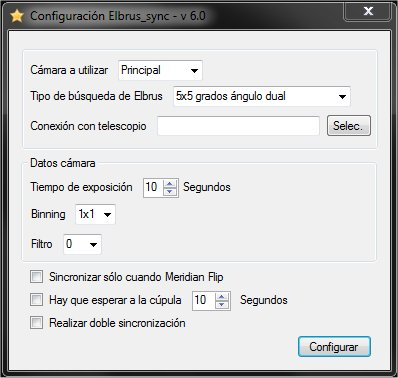
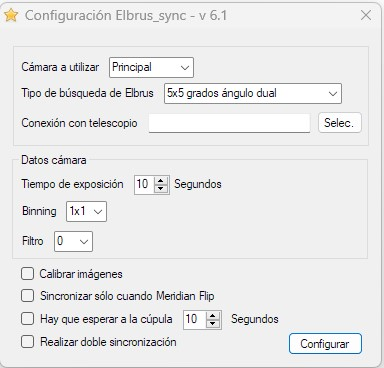
CCDC-ELBRUS v6.1

diff --git a/utilidades/CCDC-ELBRUS.html b/utilidades/CCDC-ELBRUS.html
@@ -23,7 +23,7 @@ Elbrus</font></td>
     <td width="1073" style="border: 5px solid #BD9600">
     <p align="center">
     <font size="4" color="#FFFFFF">&nbsp;</font><font size="4" color="#C6C246">Versión 
-    6.0</font></td>
+    6.1</font></td>
     <td width="34" align="justify">
     &nbsp;</td>
   </tr>
@@ -120,7 +120,7 @@ que tendrá Elbrus_sync (generando </font><font size="4" color="#C6C246">
 Elbrus_sync.ini</font><font size="4" color="#FFFFFF">), así como crea algunos <i>
 scripts</i> auxiliares.</font></p>
 <p><font size="4" color="#FFFFFF">Los dos ejecutables los encontrarás en
-<a href="Elbrus_sync%20v6.0.zip">Elbrus_sync v6.0.zip</a>. 
+<a href="Elbrus_sync%20v6.1.zip">Elbrus_sync v6.1.zip</a>. 
 Se deberán extraer en el mismo directorio 
 donde esté instalado Elbrus. Los programas son&nbsp; </font><font size="4" color="#C6C246">
 Elbrus_sync_cfg.exe</font><font size="4" color="#FFFFFF"> y </font>
@@ -128,13 +128,13 @@ Elbrus_sync_cfg.exe</font><font size="4" color="#FFFFFF"> y </font>
 <p><font size="4" color="#FFFFFF">Estos programas han sido compilados para 
 funcionar con Microsoft .NET Framework 4.0, por lo que deberá verificar que 
 dispone de esta versión o superior, y en su defecto, podrá descargarlo e 
-instalarlo desde </font><font size="5"><b>
+instalarlo desde </font><font size="4"><b>
 <a href="http://www.microsoft.com/es-es/download/details.aspx?id=30653">
 Microsoft</a></b></font><font size="4" color="#FFFFFF">.</font></p>
 <p><font size="4" color="#FFFFFF">Lo primero que haremos es ejecutar </font>
 <font size="4" color="#C6C246">Elbrus_sync_cfg.exe</font><font size="4" color="#FFFFFF">, 
 que nos permitirá configurar de manera cómoda el comportamiento que queremos del 
-sistema de sincronización:</font></p>
+sistema de sincronización:Maxim</font></p>
 <p>&nbsp;</p>
 <blockquote>
 <p><img border="0" src="Elbrus_sync_cfg.jpg" width="395" height="374"></p>
@@ -151,6 +151,8 @@ podremos indicar el tiempo
 de exposición en las tomas que utilizaremos en las resoluciones, el filtro a emplear en caso de disponer de una ruleta 
 (no es de aplicación si usamos la cámara de autoguiado) y el <i>binning</i> de las 
 tomas.</font></p>
+<p><font size="4" color="#FFFFFF">También podremos indicar que antes de pasar la 
+imagen a Elbrus ésta sea calibrada por el procedimiento establecido en MaximDL.</font></p>
 <p><font size="4" color="#FFFFFF">Si utilizamos monturas GEM es muy importante que 
 al definir su comportamiento indiquemos a Elbrus que el tipo de campo de 
 búsqueda sea de </font><font size="4" color="#C6C246"> <b>5x5 
